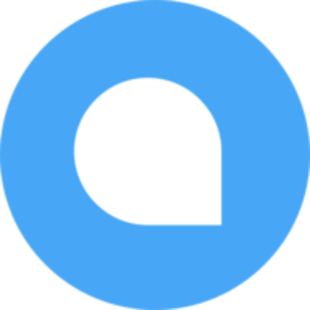
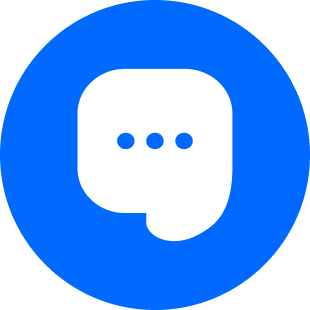
feat/ cambios en bots y qr y branding

diff --git a/app/javascript/dashboard/routes/dashboard/settings/bots/Index.vue b/app/javascript/dashboard/routes/dashboard/settings/bots/Index.vue
@@ -15,14 +15,18 @@
         <div class="card">
           <div class="row">
             <div class="small-12 columns bot_cont">
+              
               <div class="bot_cont_left">
                 <h5>{{ bot.name }}</h5>
                 <div class="bot_cont_left_info">
                   <div class="bot_cont_left_info_update">
-                    <p><strong> {{$t('LIST_BOTS_OPTIONS.LAST_UPDATE_DATE')}}</strong></p>
-                    <p>{{bot.updatedAt}}</p>
+                    <p><strong> {{$t('LIST_BOTS_OPTIONS.CHANNEL')}}</strong></p>
+                    <p>{{'Webchat - ' + bot.channels}}</p>
                   </div>
                   <div class="cont bot_cont_left_info_socialmedia" >
+                    <div v-if="bot.publicId !== null" class="online_state">
+                      <p>{{$t('LIST_BOTS_OPTIONS.ONLINE_STATE')}}</p>
+                    </div>
                     <!-- <div class="" v-for="social in socialmedias" :key="social.name">
                       <img class="bot_cont_left_info_socialmedia_img" :src='social.link' />
                     </div> -->
@@ -36,7 +40,7 @@
                 >
                   <p>{{$t('LIST_BOTS_OPTIONS.BUTTON_EDIT')}}</p>
                 </div>
-                <div
+                <div 
                   class="button_delete"
                   @click="deleteBot(bot)"
                 >
@@ -54,6 +58,7 @@
         :idaccount="this.$route.params.accountId"
         :show="showAddPopup"
         :on-close="hideAddPopup"
+        @getbots="getAllbots"
       />
     </woot-modal>
     <!-- Edit Agent -->
@@ -61,17 +66,29 @@
 
     </woot-modal>
 
-    <!-- Delete Agent -->
-    <woot-modal :show.sync="showEditPopup" :on-close="hideEditPopup">
+    <!-- Delete Bot -->
+    <woot-delete-modal
+      :show.sync="showDeletePopup"
+      :on-close="hideClosePopup"
+      :on-confirm="confirmDeletion"
+      :title="$t('DELETE_BOT.COFIRM.TITLE')"
+      :message="$t('DELETE_BOT.COFIRM.MESSAGE')"
+      :message-value="deleteMessage"
+      :confirm-text="deleteConfirmText"
+      :reject-text="deleteRejectText"
+    />
 
-    </woot-modal>
+    <!-- <woot-modal :show.sync="showEditPopup" :on-close="hideEditPopup">
+
+    </woot-modal> -->
   </div>
 </template>
 <script>
 import { mapGetters } from 'vuex';
 import globalConfigMixin from 'shared/mixins/globalConfigMixin';
-import axios from 'axios'
+import axios from 'axios';
 import AddBotModal from './AddBotModal.vue';
+import { config } from '../../../../config/config'
 
 
 export default {
@@ -81,6 +98,7 @@ export default {
   mixins: [globalConfigMixin],
   data() {
     return {
+      botSelected: {},
       loading: {},
       showAddPopup: false,
       showDeletePopup: false,
@@ -111,12 +129,25 @@ export default {
       agentBots: 'agentBots/getBots',
       uiFlags: 'agentBots/getUIFlags',
     }),
+    deleteMessage() {
+      return ` ${this.botSelected.name}?`;
+    },
+    deleteConfirmText() {
+      return `${this.$t('DELETE_BOT.COFIRM.YES')} ${
+        this.botSelected.name
+      }`;
+    },
+    deleteRejectText() {
+      return `${this.$t('DELETE_BOT.COFIRM.NO')} ${
+        this.botSelected.name
+      }`;
+    },
   },
   mounted() {
   },
   methods: {
     async getAllbots(accountId) {
-      const bots = await axios.get('https://cloud-dev.xfiv.chat/accessconfig/info/account_bot/'+accountId)
+      const bots = await axios.get(config.ENDPOINT_BACKEND + 'accessconfig/info/account_bot/'+accountId)
       // console.log(bots.data.data)
       this.bots = bots.data.data
     },
@@ -144,13 +175,22 @@ export default {
       this.showAddPopup = true;
     },
     async goEditbot(bot) {
-      window.open(`${bot.path_session}?redirect=${bot.path_edit}`, '_blank');
+      window.open(`${bot.path_session}?redirect=${bot.path_edit}?account_id=${this.idUser}`, '_blank');
     },
     async deleteBot(bot) {
-      console.log('eliminar bot')
+      this.showDeletePopup = true;
+      this.botSelected = bot
+    },
+    async confirmDeletion() {
+      const bots = await axios.delete(config.ENDPOINT_BACKEND + 'accessconfig/info/account_bot_delete/'+this.idUser+'/'+this.botSelected.id)
+      this.getAllbots(this.idUser)
+      this.hideClosePopup()
     },
     hideAddPopup() {
       this.showAddPopup = false;
+    },
+    hideClosePopup() {
+      this.showDeletePopup = false;
     },
 
     // Edit Function
@@ -204,6 +244,22 @@ export default {
       background-color: #0774da;
     }
   }
+  .online_state {
+    position: absolute;
+    top: 0;
+    left: 0;
+    display: flex;
+    flex-direction: row;
+    align-items: center;
+    border-radius: 5px;
+    padding: 2px 4px;
+    background: rgba(37, 211, 102, 0.1);
+    color: #44ce4b;
+    font-size: 0.8rem;
+    p {
+      margin: 0;
+    }
+  }
   .button_delete {
     background-color: #ffebee;
     color: #de1e27;
@@ -232,6 +288,7 @@ export default {
     width: 100%;
     height: auto;
     display: flex;
+    position: relative;
     justify-content: space-between;
     align-items: center;
     &_left {

diff --git a/app/javascript/dashboard/routes/dashboard/settings/bots/AddBotModal.vue b/app/javascript/dashboard/routes/dashboard/settings/bots/AddBotModal.vue
@@ -30,6 +30,19 @@
             />
           </label>
         </div>
+        <div class="medium-12 columns">
+          <label :class="{ error: $v.botChannel.$error }">
+            {{ $t('CREATE_BOT.FORM.CHANNEL.LABEL') }}
+            <select v-model="botChannel">
+              <option v-for="channel in channels" :key="channel.channel" :value="channel.channel">
+                {{ channel.channel }}
+              </option>
+            </select>
+            <span v-if="$v.botChannel.$error" class="message">
+              {{ $t('CREATE_BOT.FORM.CHANNEL.ERROR') }}
+            </span>
+          </label>
+        </div>
         <div class="modal-footer">
           <div class="medium-12 columns">
             <woot-submit-button
@@ -55,6 +68,7 @@ import { required, minLength } from 'vuelidate/lib/validators';
 import { mapGetters } from 'vuex';
 import alertMixin from 'shared/mixins/alertMixin';
 import axios from 'axios';
+import { config } from '../../../../config/config'
 
 export default {
   mixins: [alertMixin],
@@ -79,10 +93,16 @@ export default {
   data() {
     return {
       botName: '',
+      botChannel: '',
+      channels: []
     };
   },
   validations: {
     botName: {
+      required,
+      minLength: minLength(1),
+    },
+    botChannel: {
       required,
       minLength: minLength(1),
     },
@@ -94,27 +114,45 @@ export default {
   },
   methods: {
     async addBot() {
-      try {
-        const createAccount = await axios.post('https://cloud-dev.xfiv.chat/accessconfig/info/account_bot_creatd/'+idaccount,{
+      // try {
+      const createAccount = await axios({
+        method: 'post',
+        url: config.ENDPOINT_BACKEND + 'accessconfig/info/account_bot_creatd/'+this.idaccount,
+        data: {
           "bots": [
-            {
+              {
                 "name": this.botName,
-                "identity": ""
-            }
+                "phoneNumber": "+599999999",
+                "channels": this.botChannel,
+                "access_token": "any"
+              }
           ]
-        })
-        console.log(createAccount)
-        this.showAlert(this.$t('CREATE_BOT.API.SUCCESS_MESSAGE'));
-      } catch (error) {
-        this.showAlert(this.$t('CREATE_BOT.API.ERROR_MESSAGE'));
-        // if (error.response.status === 422) {
-        //   this.showAlert(this.$t('CREATE_BOT.API.EXIST_MESSAGE'));
-        // } else {
-        //   this.showAlert(this.$t('CREATE_BOT.API.ERROR_MESSAGE'));
-        // }
-      }
+        }
+      })
+      console.log(createAccount)
+      this.$emit('getbots', this.idaccount);
+      this.showAlert(this.$t('CREATE_BOT.API.SUCCESS_MESSAGE'));
+      this.onClose()
+      // } catch (error) {
+      //   this.showAlert(this.$t('CREATE_BOT.API.ERROR_MESSAGE'));
+      //   // if (error.response.status === 422) {
+      //   //   this.showAlert(this.$t('CREATE_BOT.API.EXIST_MESSAGE'));
+      //   // } else {
+      //   //   this.showAlert(this.$t('CREATE_BOT.API.ERROR_MESSAGE'));
+      //   // }
+      // }
     },
+    async listChannels() {
+      const channels = await axios({
+        method: 'get',
+        url: config.ENDPOINT_BACKEND + 'accessconfig/api/v1/channelhost'
+      })
+      this.channels = channels.data;
+    }
   },
+  created() {
+    this.listChannels()
+  }
 };
 </script>
 <style lang="scss" scoped>

diff --git a/app/javascript/dashboard/routes/dashboard/settings/inbox/components/BotConfiguration.vue b/app/javascript/dashboard/routes/dashboard/settings/inbox/components/BotConfiguration.vue
@@ -57,6 +57,7 @@ export default {
       svgContent: '',
       statusQRSession: '',
       timerInterval: null,
+      userAccount: '',
       status: '' //Conectado, Error de conexion, Reconectando, Generando nuevo token qr
     };
   },
@@ -86,18 +87,24 @@ export default {
 
     },
     async getQrCode() {
-      const generatedQR = await axios.get(config.ENDPOINT_BACKEND + 'whatsapp_qr/qr');
+      const {data} = await axios.get(config.ENDPOINT_BACKEND + 'accessconfig/info/account_qr/' + this.userAccount);
+      const generatedQR = await axios.get(data.data.host + data.data.path_qr);
       this.svgContent = generatedQR.data;
     },
     async cleanSessionQRCode() {
-      const {data} = await axios.get(config.ENDPOINT_BACKEND + 'whatsapp_qr/limpiar_session_whatsapp')
-      this.status = 'Reconectando';
+      const {data} = await axios.get(config.ENDPOINT_BACKEND + 'accessconfig/info/account_qr/' + this.userAccount);
+      const clean = await axios.get(data.data.host + data.data.path_qr_limpiar)
+      const statusSess = this.getStatusSession();
+      this.status = statusSess;
       this.getQrCode()
       this.timerInterval = setInterval(this.getQrCode, 30000);
     },
     async getStatusSession() {
-      const {data} = await axios.get(config.ENDPOINT_BACKEND + 'whatsapp_qr/session_whatsapp')
-      this.status = data.message;
+      const {data} = await axios.get(config.ENDPOINT_BACKEND + 'accessconfig/info/account_qr/' + this.userAccount);
+      const session = await axios.get(data.data.host + data.data.path_qr_stado)
+      this.status = session.data.message;
+      console.log(session.data.message)
+      return session.data.message
     }, 
     async updateActiveAgentBot() {
       try {
@@ -128,6 +135,7 @@ export default {
     },
   },
   created() {
+    this.userAccount = this.$route.params.accountId;
     this.getStatusSession();
     if (this.status !== 'Conectado') {
       this.getQrCode();

diff --git a/app/javascript/dashboard/routes/dashboard/settings/agentBots/agentBot.routes.js b/app/javascript/dashboard/routes/dashboard/settings/agentBots/agentBot.routes.js
@@ -8,7 +8,7 @@ export default {
   routes: [
     {
       path: frontendURL('accounts/:accountId/settings/agent-bots'),
-      roles: ['administrator'],
+      roles: ['administrator', 'agent'],
       component: SettingsContent,
       props: {
         headerTitle: 'AGENT_BOTS.HEADER',

diff --git a/app/javascript/dashboard/components/widgets/WootWriter/ReplyBottomPanel.vue b/app/javascript/dashboard/components/widgets/WootWriter/ReplyBottomPanel.vue
@@ -78,7 +78,7 @@
         @click="toggleMessageSignature"
       />
       <woot-button
-        v-if="hasWhatsappTemplates"
+        v-if="true"
         v-tooltip.top-end="'Whatsapp Templates'"
         icon="whatsapp"
         color-scheme="secondary"

diff --git a/app/javascript/dashboard/config/config.js b/app/javascript/dashboard/config/config.js
@@ -1,3 +1,3 @@
 export const config = {
-    "ENDPOINT_BACKEND": "https://cloud-dev.xfiv.chat/"
+    "ENDPOINT_BACKEND": "https://gateway.xfiv.chat/"
 }
